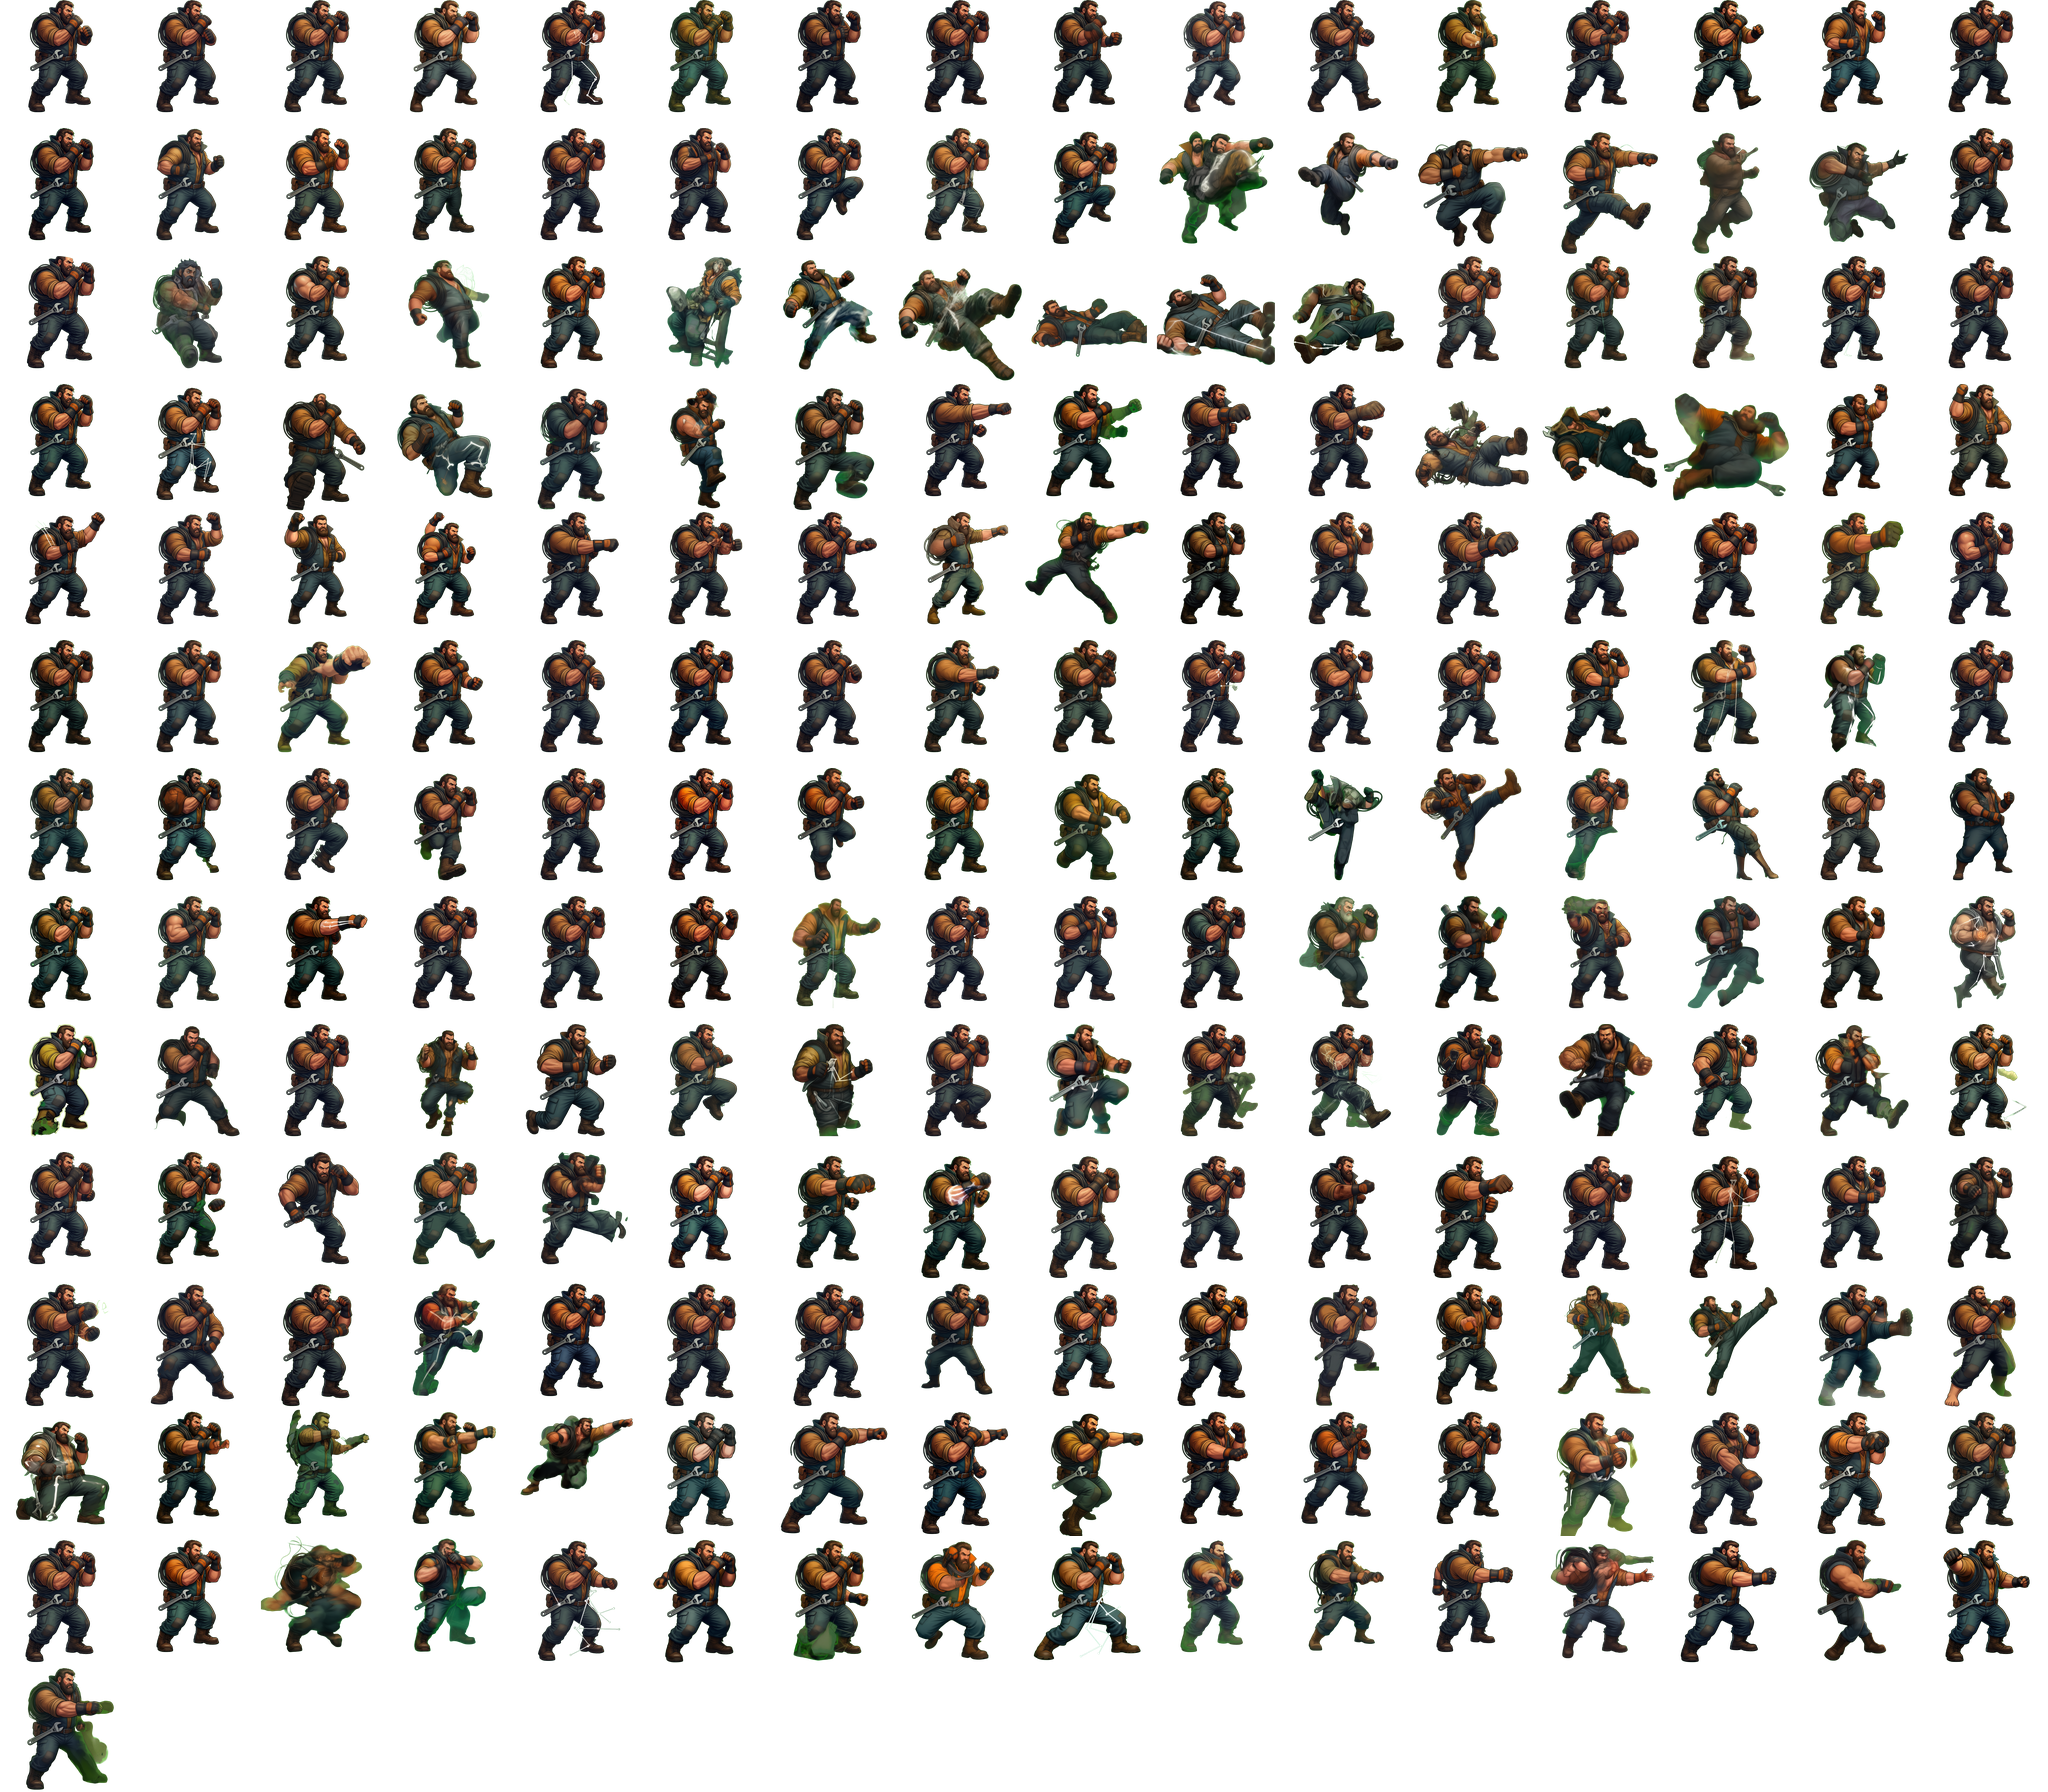
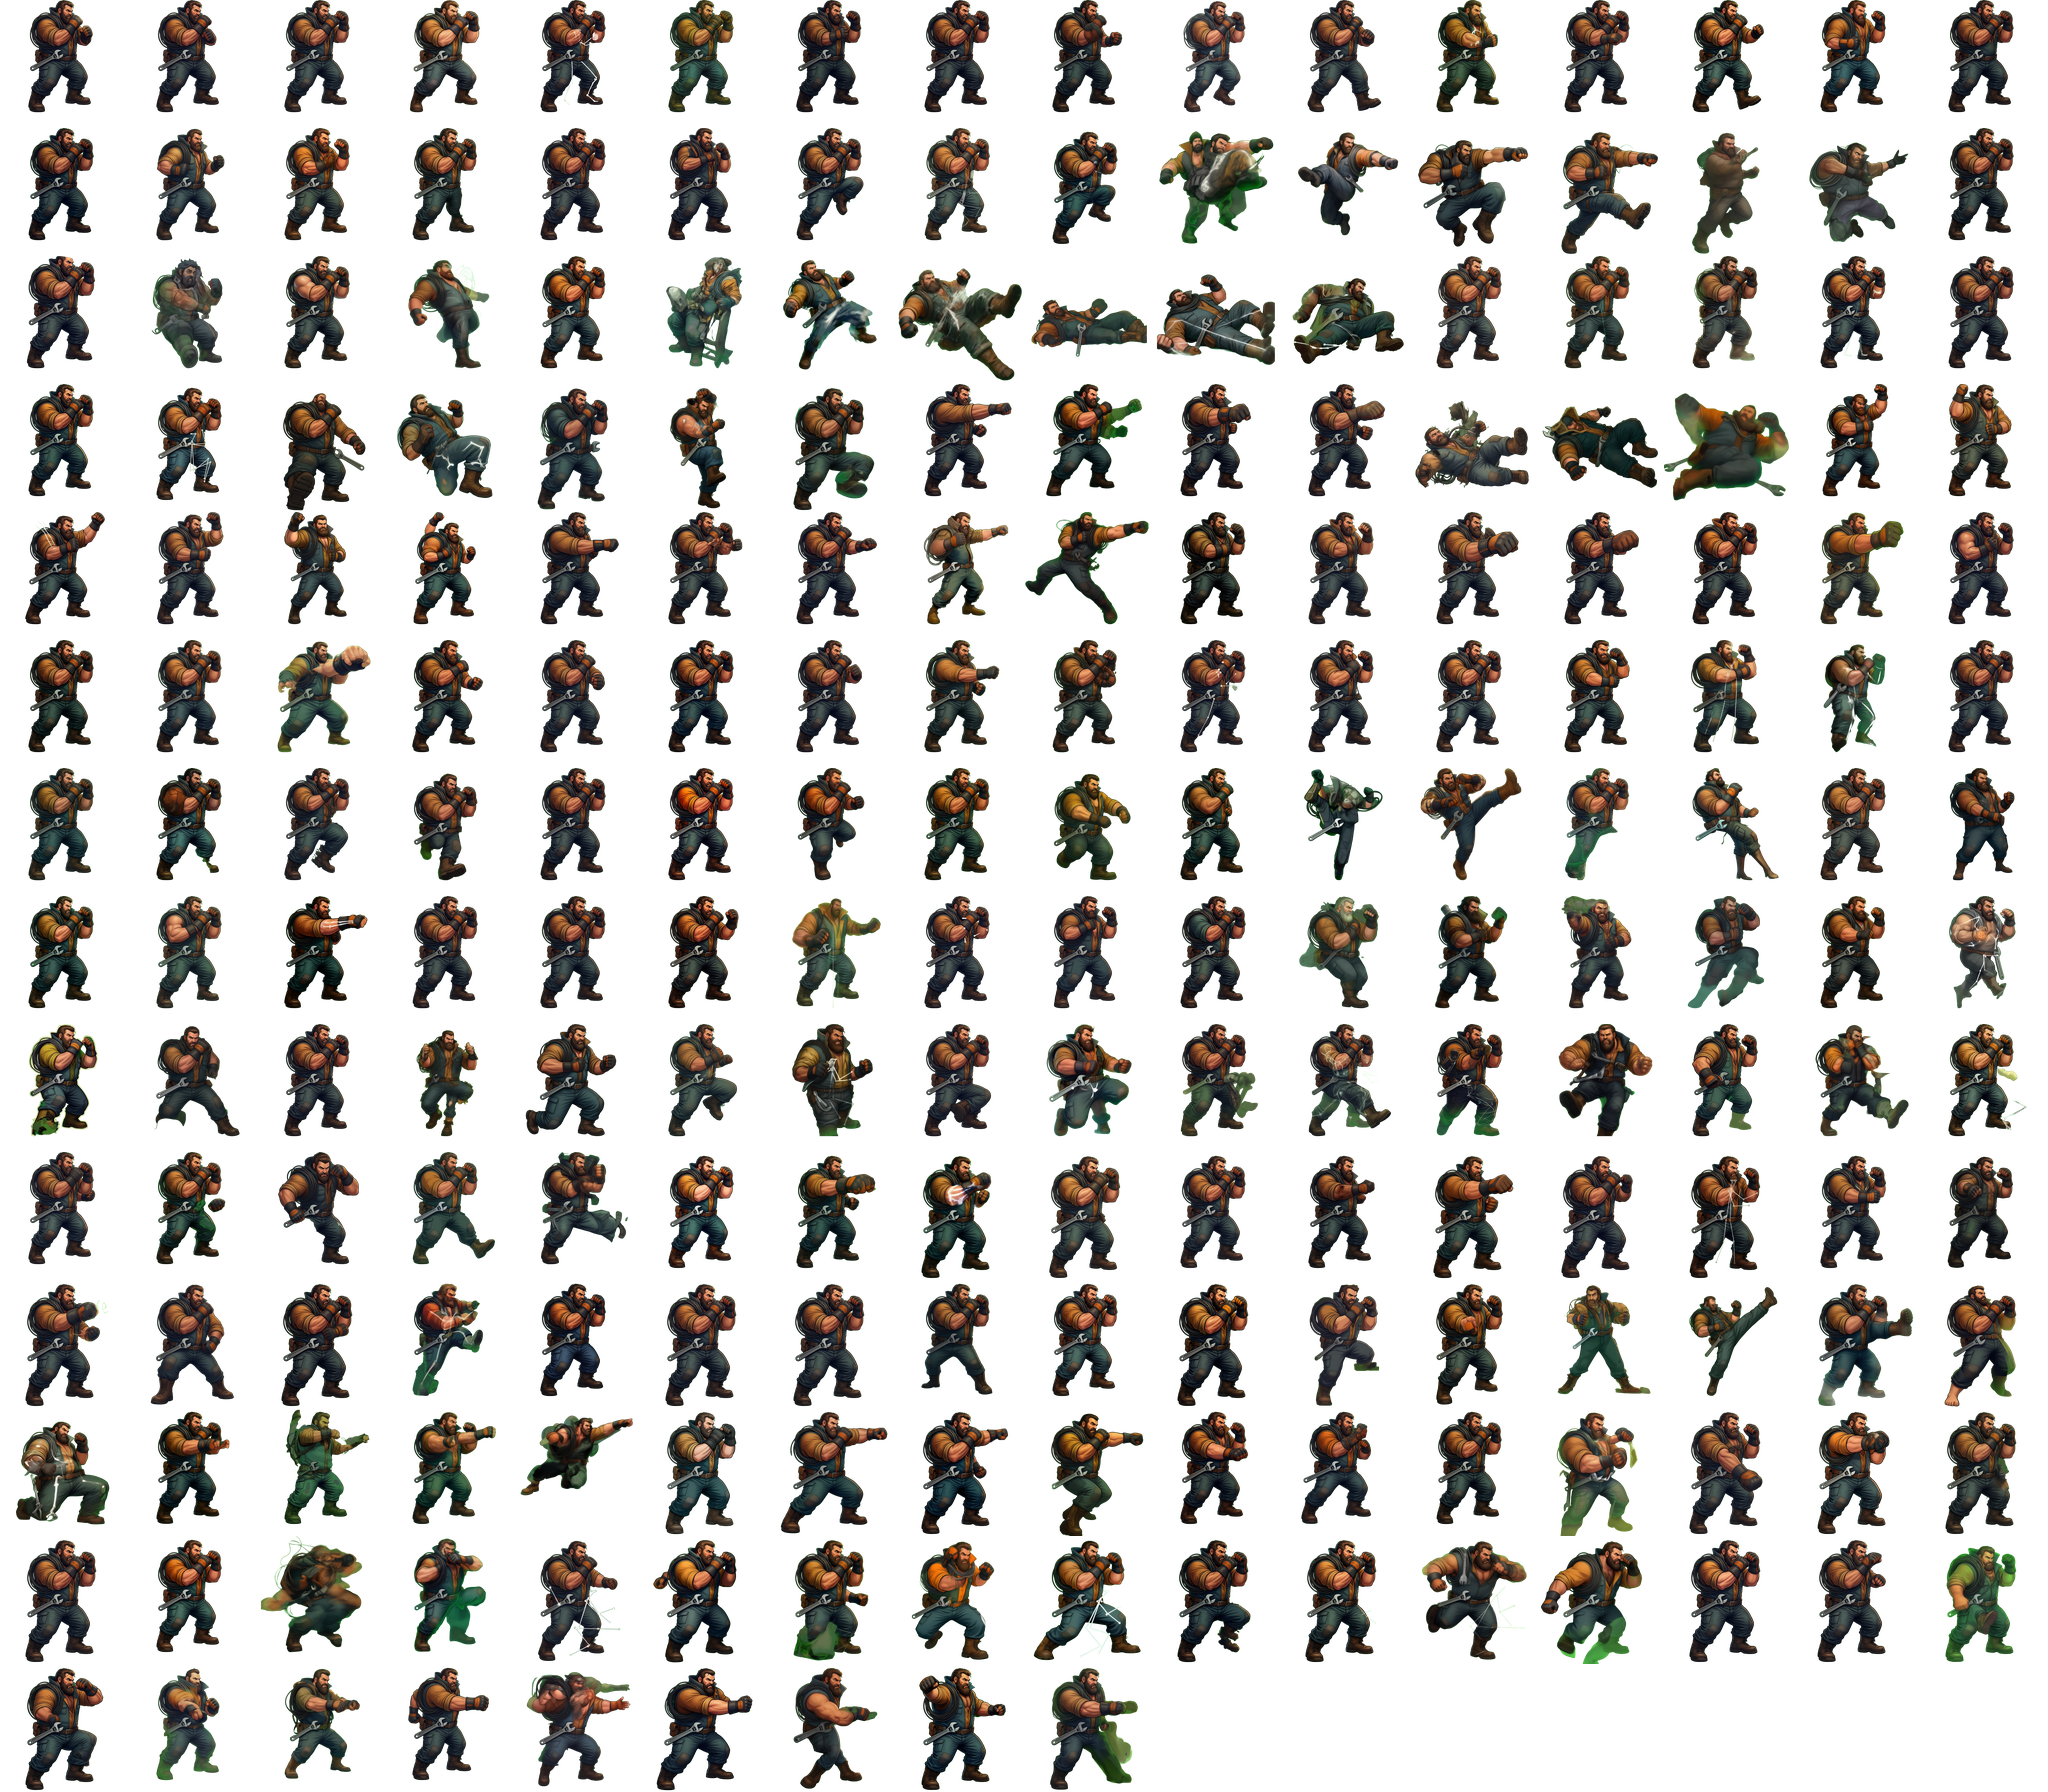
特殊技：c03 雷钧 缆鞭踢（421K 下段击倒甩踢）数据+帧+图集

Changed region(s): [[0.5625, 0.8438, 1.0, 0.9375], [0.0, 0.9375, 0.5625, 1.0]]

diff --git a/src/theme/meilong/characters/c03.js b/src/theme/meilong/characters/c03.js
@@ -411,6 +411,29 @@ export default {
         "h": 16
       },
       "anim": "sweep"
+    },
+    {
+      "id": "lansao",
+      "name": "缆鞭踢",
+      "input": "421K",
+      "desc": "后下下后重脚，肩上电缆甩踢，下段击倒",
+      "startup": 14,
+      "active": 6,
+      "recovery": 28,
+      "damage": 120,
+      "chip": 15,
+      "stun": 14,
+      "hitstun": 20,
+      "blockstun": 16,
+      "level": "low",
+      "knockdown": true,
+      "hitbox": {
+        "x": -6,
+        "y": 0,
+        "w": 62,
+        "h": 40
+      },
+      "anim": "sweep"
     }
   ],
   "supers": [
